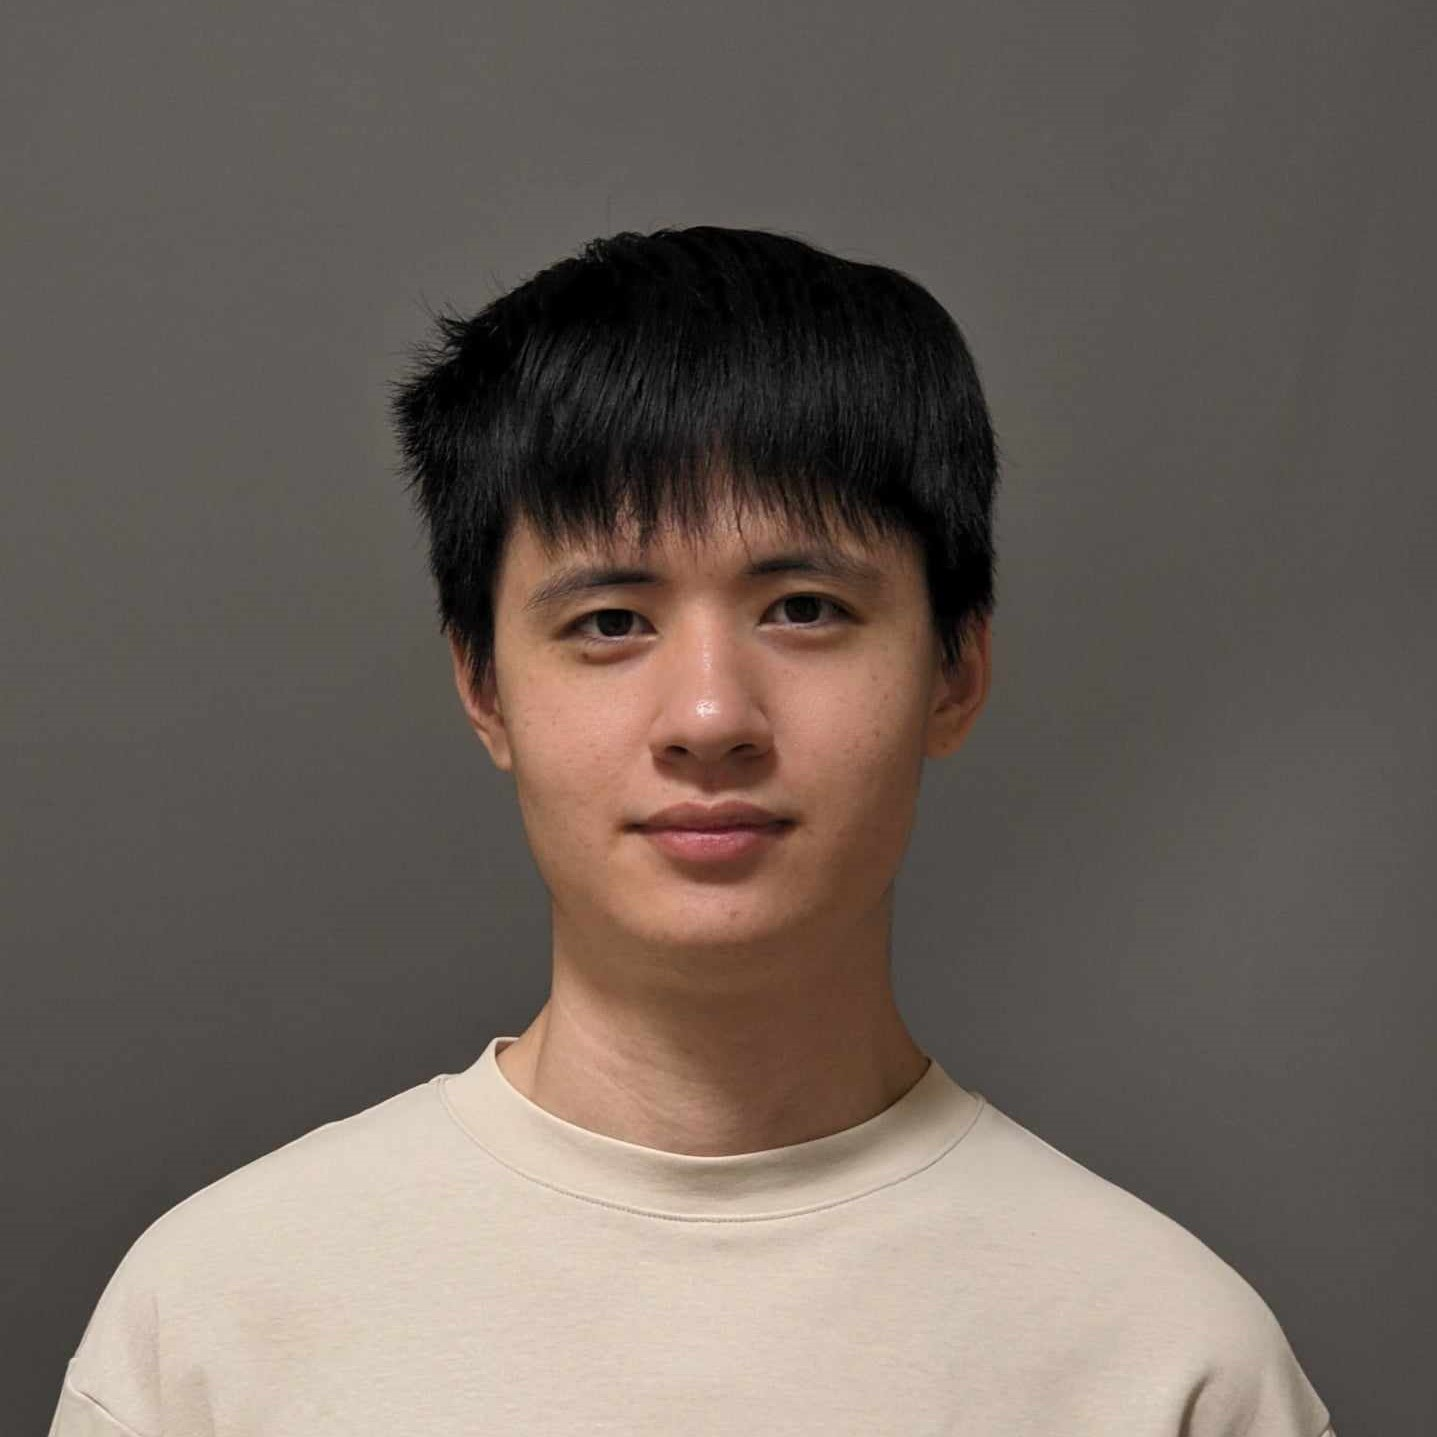
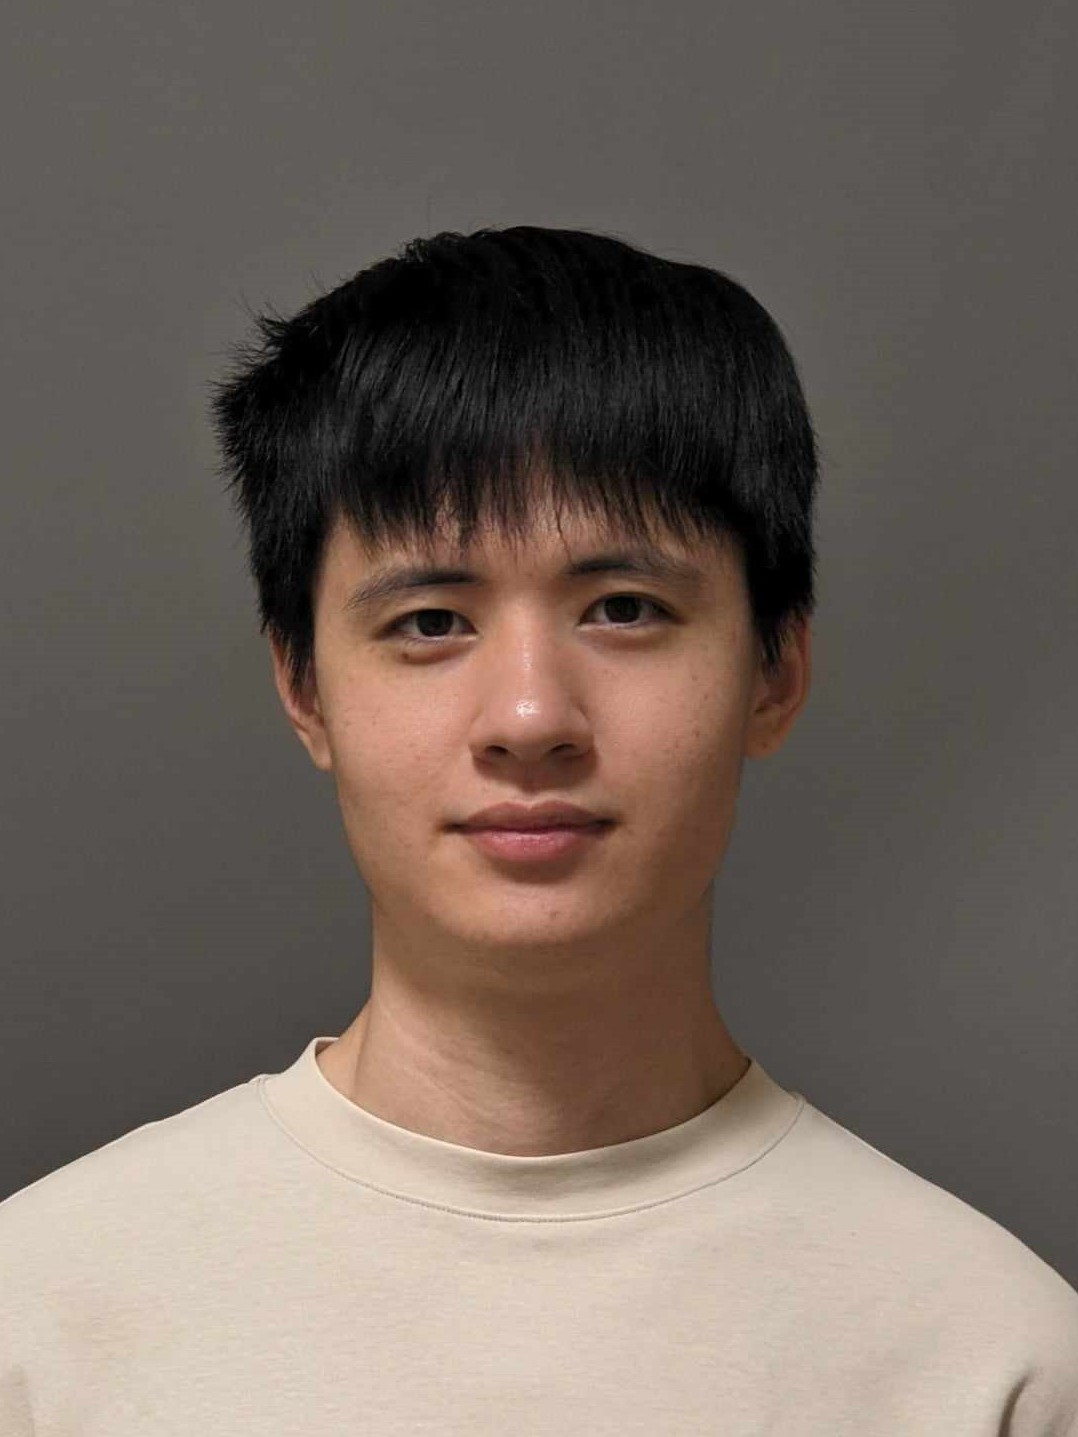
feat: adjust about me page

diff --git a/src/app/about/page.tsx b/src/app/about/page.tsx
@@ -1,119 +1,86 @@
-import Link from "next/link"
-import Image from "next/image"
+import { notFound } from "next/navigation"
+import { compileMDX } from "next-mdx-remote/rsc"
+import path from "path"
+import fs from "fs"
+import remark_gfm from "remark-gfm"
+import {
+  FaDownload,
+  FaShapes,
+  FaUsers,
+  FaSearch,
+  FaGithub,
+  FaLinkedin,
+  FaEnvelope,
+} from "react-icons/fa"
+import ProfileHero from "@/components/features/about/ProfileHero"
+import EducationSection from "@/components/features/about/EducationSection"
+import ValueCard from "@/components/features/about/ValueCard"
+import SocialLinks from "@/components/features/about/SocialLinks"
+import Card from "@/components/mdx/Card"
+import Grid from "@/components/mdx/Grid"
+import Callout from "@/components/mdx/Callout"
+import Divider from "@/components/ui/Divider"
+import Tag from "@/components/ui/Tag"
+import AnimatedArticle from "@/components/ui/AnimatedArticle"
 import Timeline from "@/components/ui/Timeline"
 import TimelineItem from "@/components/ui/TimelineItem"
-import { FaDownload, FaShapes, FaUsers, FaSearch } from "react-icons/fa"
-import education from "@/data/education"
-import journey from "@/data/journey"
 
-export default function AboutPage() {
+export default async function AboutPage() {
+  const filePath = path.join(process.cwd(), "src", "data", "about", "about.mdx")
+
+  if (!fs.existsSync(filePath)) {
+    return notFound()
+  }
+
+  const mdxSource = fs.readFileSync(filePath, "utf-8")
+
+  const { content } = await compileMDX<{
+    title: string
+    subtitle: string
+    coverImage: string
+    role: string
+    duration: string
+    techStack: Record<string, string[]>
+    impacts: Record<string, string>
+    teamMembers?: Record<string, number>
+    githubUrl?: string
+    liveDemoUrl?: string
+  }>({
+    source: mdxSource,
+    components: {
+      ProfileHero,
+      EducationSection,
+      ValueCard,
+      SocialLinks,
+      Card,
+      Grid,
+      Callout,
+      Tag,
+      Divider,
+      Timeline,
+      TimelineItem,
+      FaDownload,
+      FaShapes,
+      FaUsers,
+      FaSearch,
+      FaGithub,
+      FaLinkedin,
+      FaEnvelope,
+    },
+    options: {
+      mdxOptions: {
+        remarkPlugins: [remark_gfm],
+      },
+    },
+  })
+
   return (
-      <div className="main-content">
-      <h1 className="text-3xl mb-4 font-extrabold">About me</h1>
-      <Link
-        href="/resume.pdf"
-        target="_blank"
-        rel="noopener noreferrer"
-        className="group flex items-center justify-center mb-4 gap-2 text-blue-600 hover:underline underline-offset-4"
-      >
-        <FaDownload /> Download Resume
-      </Link>
-
-      {/* Brief Introduction & Image */}
-      <div className="flex flex-col items-center gap-4 mb-6 md:flex-row">
-        <Image
-          src="/img_profile_photo.jpg"
-          alt="profile photo"
-          className="rounded-lg object-contain select-none"
-          width={200}
-          height={200}
-        />
-
-        <p className="flex text-lg">
-          Collaborative and detail-oriented Front-End Engineer with 3+ years of professional
-          experience, including 2 years in a dynamic e-commerce team at Wabow Information Inc.
-          Leverages a background in Design to build intuitive and engaging user experiences with
-          Typescript, Vue, and React. A quick learner adept at writing clean, robust, and
-          maintainable code to solve complex problems and deliver high-quality web applications.
-        </p>
-      </div>
-
-      {/* Philosophy */}
-      <div className="grid grid-cols-1 gap-4 mb-6 md:grid-cols-3 ">
-        <div className="flex flex-col items-center w-full">
-          <FaShapes className="fa-regular text-3xl mb-2" />
-          <h3 className="text-xl font-bold italic">&quot; Less is more &quot;</h3>
-          <p>
-            From my design background, I learnt the philosophy to keep products simple to make it
-            easy for the user to use it. I think this concept fits the software industry as well,
-            since keeping the code easy, clean, and readable helps other to understand and revise
-            your features.
-          </p>
+    <div className="main-content">
+      <AnimatedArticle>
+        <div className="max-w-4xl prose prose-h2:mt-8 prose-h3:text-base dark:prose-invert">
+          {content}
         </div>
-        <div className="flex flex-col items-center w-full">
-          <FaUsers className="fa-regular text-3xl mb-2" />
-          <h3 className="text-xl font-bold italic">&quot; User-Centric &quot;</h3>
-          <p>
-            User experience is key to a successful product. Being user-centric means understanding
-            the needs of not only end users but also teammates and developers. Considering their
-            perspectives reduces conflicts, aligns goals, and makes projects more efficient and
-            successful.
-          </p>
-        </div>
-        <div className="flex flex-col items-center w-full">
-          <FaSearch className="fa-regular text-3xl mb-2" />
-          <h3 className="text-xl font-bold italic">&quot; Curiosity-Driven &quot;</h3>
-          <p>
-            I’m drawn to the endless challenges and possibilities in software development. Curiosity
-            drives growth and innovation, helping me embrace emerging technologies like AI. It
-            inspires me to explore new frontiers, adapt to change, and thrive in this ever-evolving
-            industry.
-          </p>
-        </div>
-      </div>
-
-      {/* Education */}
-      <h2 className="text-2xl mb-2 font-bold">Education</h2>
-      <div className="mb-6">
-        {education.map((edu, index) => (
-          <div key={index} className="mb-2 border-1 rounded-lg p-4 shadow-sm hover:shadow-md">
-            <h3 className="text-xl font-semibold">
-              {edu.degree} @ {edu.school}
-            </h3>
-            <h4>
-              {edu.duration} | {edu.location}
-            </h4>
-            <p className="text-gray-600 dark:text-gray-400">{edu.description}</p>
-            <div className="flex gap-0">
-              {edu.skills.map((skill, index) => (
-                <span
-                  key={index}
-                  className="text-sm bg-gray-200 dark:bg-gray-700 text-gray-800 dark:text-gray-200 px-2 py-1 rounded-full mr-2 mt-1"
-                >
-                  {skill}
-                </span>
-              ))}
-            </div>
-          </div>
-        ))}
-      </div>
-
-      {/* Personal Journey */}
-      <h2 className="text-2xl mb-4 font-bold">Personal Journey</h2>
-      <Timeline>
-        {journey.map((item, index) => (
-          <TimelineItem
-            key={index}
-            title={item.title}
-            duration={item.duration}
-            location={item.location}
-          >
-            {item.description.map((content, index) => (
-              <p key={index}>{content}</p>
-            ))}
-          </TimelineItem>
-        ))}
-      </Timeline>
+      </AnimatedArticle>
     </div>
   )
 }
